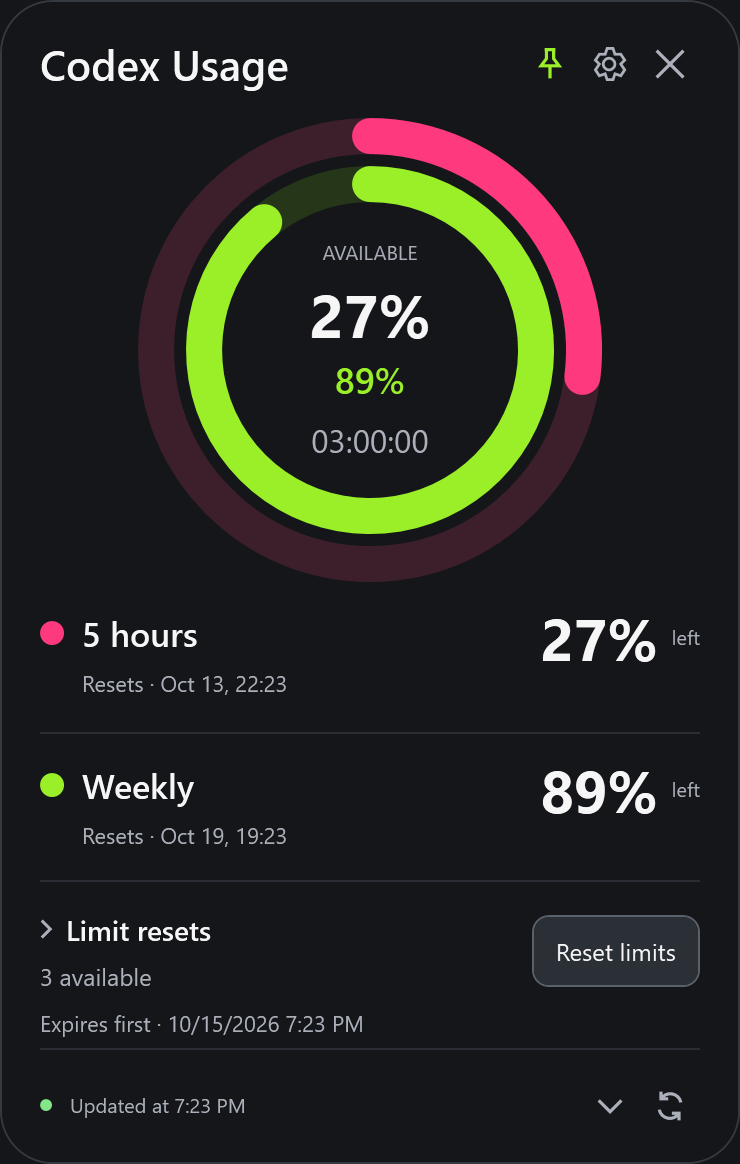
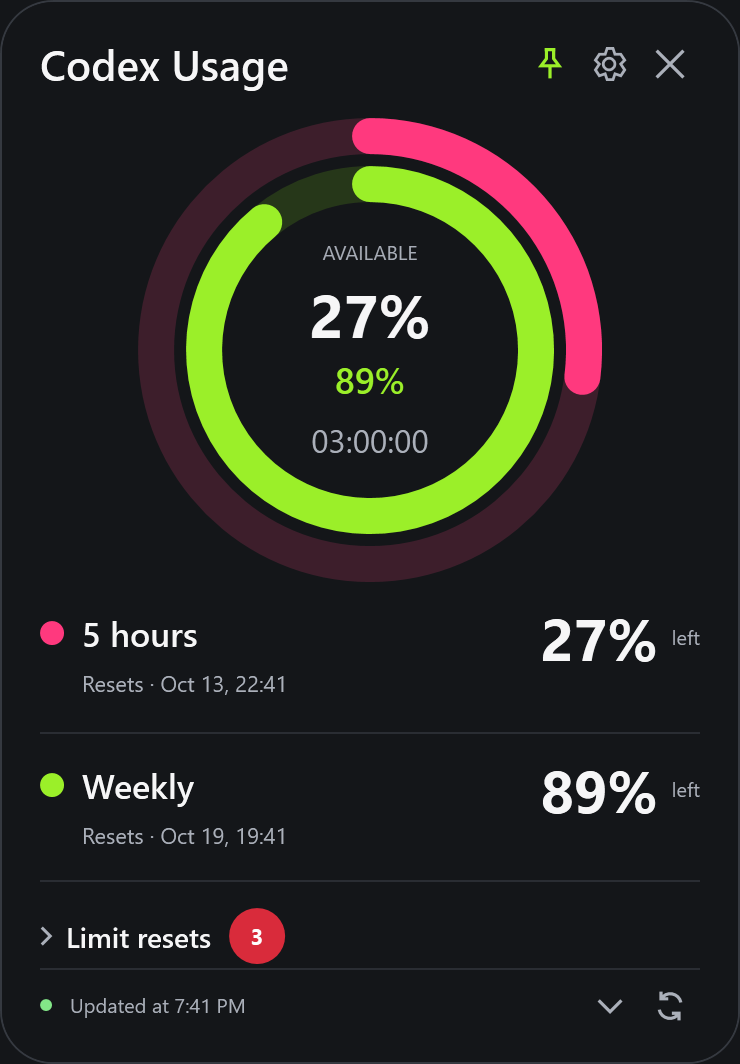
Collapse entire reset section and replay quota ring fills

diff --git a/src/CodexUsageWidget/MainWindow.xaml b/src/CodexUsageWidget/MainWindow.xaml
@@ -4,7 +4,7 @@
  xmlns:controls="clr-namespace:CodexUsageWidget.Controls"
  xmlns:loc="clr-namespace:CodexUsageWidget"
  xmlns:core="clr-namespace:CodexUsageWidget.Core;assembly=CodexUsageWidget.Core"
- Icon="Assets/app.ico" Title="Codex Usage Widget" Width="386" Height="598" WindowStyle="None" WindowStartupLocation="CenterScreen"
+ Icon="Assets/app.ico" Title="Codex Usage Widget" Width="386" Height="548" WindowStyle="None" WindowStartupLocation="CenterScreen"
  Language="{Binding CultureName, Source={x:Static core:Localization.Current}, ConverterCulture=en-US}"
  AllowsTransparency="True" Background="Transparent" ResizeMode="NoResize"
  ShowInTaskbar="False" Topmost="True" FontFamily="Segoe UI Variable, Segoe UI"
@@ -22,7 +22,7 @@
    <ScrollViewer x:Name="ExpandedScroll" VerticalScrollBarVisibility="Auto" HorizontalScrollBarVisibility="Disabled" Visibility="{Binding IsExpanded, Converter={StaticResource BoolVisibility}}">
    <Grid x:Name="ExpandedPanel" Margin="19,14,19,12">
     <Grid.RowDefinitions>
-     <RowDefinition Height="34"/><RowDefinition Height="244"/><RowDefinition Height="74"/><RowDefinition Height="74"/><RowDefinition x:Name="ResetSectionRow" Height="94"/><RowDefinition Height="32"/>
+     <RowDefinition Height="34"/><RowDefinition Height="244"/><RowDefinition Height="74"/><RowDefinition Height="74"/><RowDefinition x:Name="ResetSectionRow" Height="44"/><RowDefinition Height="32"/>
     </Grid.RowDefinitions>
     <Grid>
      <Grid.ColumnDefinitions><ColumnDefinition/><ColumnDefinition Width="90"/></Grid.ColumnDefinitions>
@@ -74,9 +74,8 @@
      <Border Grid.Row="2" Grid.ColumnSpan="3" Background="#2A2D33"/>
     </Grid>
     <Grid Grid.Row="4" Margin="0,11,0,0" ToolTip="{Binding ResetDetails}">
-     <Grid.ColumnDefinitions><ColumnDefinition/><ColumnDefinition Width="Auto"/></Grid.ColumnDefinitions>
-     <Grid.RowDefinitions><RowDefinition Height="25"/><RowDefinition Height="22"/><RowDefinition Height="25"/><RowDefinition x:Name="ResetListRow" Height="0"/><RowDefinition Height="1"/></Grid.RowDefinitions>
-     <ToggleButton x:Name="ResetDisclosure" Background="Transparent" BorderThickness="0" Foreground="{StaticResource Text}" HorizontalContentAlignment="Left" Click="ResetDisclosure_Click" AutomationProperties.Name="{loc:Tr ResetsHeading}">
+     <Grid.RowDefinitions><RowDefinition Height="32"/><RowDefinition Height="Auto"/><RowDefinition Height="1"/></Grid.RowDefinitions>
+     <ToggleButton x:Name="ResetDisclosure" Background="Transparent" BorderThickness="0" Foreground="{StaticResource Text}" HorizontalAlignment="Left" HorizontalContentAlignment="Left" Click="ResetDisclosure_Click" AutomationProperties.Name="{loc:Tr ResetsHeading}">
       <ToggleButton.Template><ControlTemplate TargetType="ToggleButton">
        <Border x:Name="DisclosureSurface" Background="Transparent" CornerRadius="7" Padding="0,0,6,0">
         <StackPanel Orientation="Horizontal" VerticalAlignment="Center">
@@ -89,15 +88,24 @@
         <Trigger Property="IsMouseOver" Value="True"><Setter TargetName="DisclosureSurface" Property="Background" Value="#282B31"/></Trigger>
        </ControlTemplate.Triggers>
       </ControlTemplate></ToggleButton.Template>
-      <TextBlock Text="{loc:Tr ResetsHeading}" FontSize="14" FontWeight="SemiBold"/>
+      <StackPanel Orientation="Horizontal">
+       <TextBlock Text="{loc:Tr ResetsHeading}" FontSize="14" FontWeight="SemiBold" VerticalAlignment="Center"/>
+       <Border Background="#D92B3B" CornerRadius="14" Width="28" Height="28" Margin="9,0,0,0" ToolTip="{Binding ResetAvailability}">
+        <TextBlock x:Name="ResetCountBadge" Text="{Binding ResetCountText}" Foreground="White" FontSize="11" FontWeight="Bold" VerticalAlignment="Center" HorizontalAlignment="Center"/>
+       </Border>
+      </StackPanel>
      </ToggleButton>
-     <Button Grid.Column="1" Grid.RowSpan="2" x:Name="ResetButton" Content="{Binding ResetButtonText}" IsEnabled="{Binding CanReset}" Style="{StaticResource ActionButton}" FontSize="12" Padding="11,0" VerticalAlignment="Center" Click="Reset_Click" AutomationProperties.Name="{loc:Tr ResetAction}"/>
-     <TextBlock Grid.Row="1" Text="{Binding ResetAvailability}" Foreground="{StaticResource Muted}" FontSize="12" VerticalAlignment="Center" Margin="0,0,8,0" TextTrimming="CharacterEllipsis"/>
-     <TextBlock Grid.Row="2" Grid.ColumnSpan="2" Text="{Binding ResetExpiry}" FontSize="11" Foreground="{StaticResource Muted}" TextTrimming="CharacterEllipsis" ToolTip="{Binding ResetDetails}" VerticalAlignment="Center"/>
-     <ScrollViewer x:Name="ResetDetailsPanel" Grid.Row="3" Grid.ColumnSpan="2" Height="82" Visibility="{Binding IsChecked, ElementName=ResetDisclosure, Converter={StaticResource BoolVisibility}}" VerticalScrollBarVisibility="Auto" HorizontalScrollBarVisibility="Disabled" Margin="0,0,0,5">
+     <Grid x:Name="ResetDetailsPanel" Grid.Row="1" Visibility="{Binding IsChecked, ElementName=ResetDisclosure, Converter={StaticResource BoolVisibility}}" Margin="0,4,0,8">
+      <Grid.ColumnDefinitions><ColumnDefinition/><ColumnDefinition Width="Auto"/></Grid.ColumnDefinitions>
+      <Grid.RowDefinitions><RowDefinition Height="38"/><RowDefinition Height="25"/><RowDefinition Height="82"/></Grid.RowDefinitions>
+      <TextBlock Text="{Binding ResetAvailability}" Foreground="{StaticResource Muted}" FontSize="12" VerticalAlignment="Center" Margin="0,0,8,0" TextTrimming="CharacterEllipsis"/>
+      <Button Grid.Column="1" x:Name="ResetButton" Content="{Binding ResetButtonText}" IsEnabled="{Binding CanReset}" Style="{StaticResource ActionButton}" FontSize="12" Padding="11,0" VerticalAlignment="Center" Click="Reset_Click" AutomationProperties.Name="{loc:Tr ResetAction}"/>
+      <TextBlock Grid.Row="1" Grid.ColumnSpan="2" Text="{Binding ResetExpiry}" FontSize="11" Foreground="{StaticResource Muted}" TextTrimming="CharacterEllipsis" ToolTip="{Binding ResetDetails}" VerticalAlignment="Center"/>
+      <ScrollViewer Grid.Row="2" Grid.ColumnSpan="2" Height="82" VerticalScrollBarVisibility="Auto" HorizontalScrollBarVisibility="Disabled">
       <ItemsControl x:Name="ResetEntriesList" ItemsSource="{Binding ResetEntries}"><ItemsControl.ItemTemplate><DataTemplate><TextBlock Text="{Binding}" FontSize="12" Foreground="{StaticResource Muted}" Margin="0,2,0,2" TextWrapping="Wrap"/></DataTemplate></ItemsControl.ItemTemplate></ItemsControl>
-     </ScrollViewer>
-     <Border Grid.Row="4" Grid.ColumnSpan="2" Background="#2A2D33"/>
+      </ScrollViewer>
+     </Grid>
+     <Border Grid.Row="2" Background="#2A2D33"/>
     </Grid>
     <Grid Grid.Row="5" Margin="0,3,0,0">
      <Grid.ColumnDefinitions><ColumnDefinition Width="15"/><ColumnDefinition/><ColumnDefinition Width="30"/><ColumnDefinition Width="30"/></Grid.ColumnDefinitions>

diff --git a/src/CodexUsageWidget/App.xaml b/src/CodexUsageWidget/App.xaml
@@ -106,6 +106,10 @@
     </ControlTemplate.Triggers>
    </ControlTemplate></Setter.Value></Setter>
   </Style>
-  <Style TargetType="Separator"><Setter Property="Template"><Setter.Value><ControlTemplate TargetType="Separator"><Border Height="1" Background="#353940" Margin="12,5"/></ControlTemplate></Setter.Value></Setter></Style>
+  <Style TargetType="Separator">
+   <Setter Property="OverridesDefaultStyle" Value="True"/><Setter Property="Margin" Value="0"/>
+   <Setter Property="HorizontalAlignment" Value="Stretch"/>
+   <Setter Property="Template"><Setter.Value><ControlTemplate TargetType="Separator"><Border Height="1" Background="#353940" Margin="0,5"/></ControlTemplate></Setter.Value></Setter>
+  </Style>
  </Application.Resources>
 </Application>

diff --git a/src/CodexUsageWidget/MainWindow.xaml.cs b/src/CodexUsageWidget/MainWindow.xaml.cs
@@ -140,9 +140,8 @@ public partial class MainWindow : Window
     {
         Width = _viewModel.IsCompact ? 128 : 386;
         var showResets = ResetDisclosure.IsChecked == true;
-        ResetSectionRow.Height = new GridLength(showResets ? 181 : 94);
-        ResetListRow.Height = new GridLength(showResets ? 87 : 0);
-        Height = _viewModel.IsCompact ? 128 : showResets ? 685 : 598;
+        ResetSectionRow.Height = new GridLength(showResets ? 202 : 44);
+        Height = _viewModel.IsCompact ? 128 : showResets ? 706 : 548;
         Surface.CornerRadius = new CornerRadius(_viewModel.IsCompact ? 22 : 26);
     }
 
@@ -156,6 +155,7 @@ public partial class MainWindow : Window
         {
             WindowPlacement.KeepInside(this, screen);
             SaveSettings();
+            ReplayVisibleRings();
         });
     }
 
@@ -307,16 +307,27 @@ public partial class MainWindow : Window
         UpdateTray();
     }
 
-    private void ShowWidget() { Show(); EnsureVisible(); UpdateClockState(); Activate(); }
+    private void ShowWidget()
+    {
+        if (WindowState == WindowState.Minimized) WindowState = WindowState.Normal;
+        Show(); EnsureVisible(); UpdateClockState(); Activate();
+    }
 
     private void UpdateClockState()
     {
         if (IsVisible && WindowState != WindowState.Minimized)
         {
+            var resume = !_clock.IsEnabled;
             _viewModel.Tick();
             _clock.Start();
+            if (resume) Dispatcher.BeginInvoke(DispatcherPriority.Loaded, ReplayVisibleRings);
         }
         else _clock.Stop();
+    }
+
+    private void ReplayVisibleRings()
+    {
+        foreach (var ring in FindVisualChildren<RingGauge>(Surface).Where(ring => ring.IsVisible)) ring.ReplayFill();
     }
 
     private bool IsInsideRingArea(DependencyObject? source)
@@ -341,7 +352,7 @@ public partial class MainWindow : Window
         Add("MenuShow", ShowWidget);
         Add("MenuMode", () => Compact_Click(this, new RoutedEventArgs()));
         Add("Settings", () => { ShowWidget(); Settings_Click(this, new RoutedEventArgs()); });
-        menu.Items.Add(new Separator());
+        menu.Items.Add(new Separator { Style = (Style)FindResource(typeof(Separator)) });
         Add("MenuExit", ExitAsync);
         return menu;
     }
@@ -422,7 +433,8 @@ public partial class MainWindow : Window
         if (!_viewModel.CanReset || !_viewModel.ResetAvailability.Contains("3", StringComparison.Ordinal))
             throw new InvalidOperationException("Available reset state verification failed.");
         Capture(Surface, Path.Combine(directory, "main.png"));
-        if (ResetDetailsPanel.IsVisible) throw new InvalidOperationException("Reset details must start collapsed.");
+        if (ResetDetailsPanel.IsVisible || ResetButton.IsVisible || ResetCountBadge.Text != "3")
+            throw new InvalidOperationException("Collapsed resets must show only their heading and live count badge.");
         var collapsedHeight = Height;
         ResetDisclosure.IsChecked = true;
         ResetDisclosure_Click(this, new RoutedEventArgs());
@@ -437,9 +449,12 @@ public partial class MainWindow : Window
             throw new InvalidOperationException("Closing reset details must recover the space.");
         if (_viewModel.ResetEntries.Count != 3 || ResetEntriesList.Items.Count != 3)
             throw new InvalidOperationException("Every returned reset must be listed.");
-        _viewModel.IsCompact = true;
-        ApplyLayout();
-        await Task.Delay(150);
+        Compact_Click(this, new RoutedEventArgs());
+        await Dispatcher.InvokeAsync(() => { }, DispatcherPriority.ContextIdle);
+        await Task.Delay(100);
+        VerifyRefillInProgress();
+        Capture(Surface, Path.Combine(directory, "compact-refill.png"));
+        await Task.Delay(550);
         if (FindVisualChildren<TextBlock>(CompactPanel).Any(text => text.IsVisible && !ReferenceEquals(text, CompactCountdown)) ||
             FindVisualChildren<RingGauge>(CompactPanel).Count() != 2)
             throw new InvalidOperationException("Compact mode must show only two rings and the countdown.");
@@ -472,6 +487,7 @@ public partial class MainWindow : Window
         _viewModel.SetSnapshot(_viewModel.Snapshot! with { ObservedAt = DateTimeOffset.UtcNow, ResetCredits = new ResetCredits(0, []), ResetCreditsIncluded = true });
         if (_viewModel.CanReset) throw new InvalidOperationException("Zero available resets should disable the action.");
         await Task.Delay(100);
+        if (ResetCountBadge.Text != "0") throw new InvalidOperationException("The badge must display the authoritative zero count.");
         Capture(Surface, Path.Combine(directory, "reset-empty.png"));
         SetDemoSnapshot();
         var settings = new SettingsWindow(new WidgetSettings { Language = Localization.Current.Language }) { Owner = this };
@@ -522,6 +538,14 @@ public partial class MainWindow : Window
         if (_clock.IsEnabled) throw new InvalidOperationException("The countdown timer must stop while hidden.");
         ShowWidget();
         if (!_clock.IsEnabled) throw new InvalidOperationException("The countdown timer must resume when shown.");
+        await Dispatcher.InvokeAsync(() => { }, DispatcherPriority.ContextIdle);
+        await Task.Delay(100);
+        VerifyRefillInProgress();
+        Capture(Surface, Path.Combine(directory, "tray-restore-refill.png"));
+        await Task.Delay(550);
+        foreach (var ring in FindVisualChildren<RingGauge>(Surface).Where(ring => ring.IsVisible))
+            if (Math.Abs(ring.AnimatedValue - ring.Value) > 0.01)
+                throw new InvalidOperationException("Refill must end at the authoritative percentage.");
         foreach (var screen in Forms.Screen.AllScreens)
         {
             _viewModel.IsCompact = true;
@@ -541,6 +565,15 @@ public partial class MainWindow : Window
         if (Math.Abs(dialog.Left + dialog.ActualWidth / 2 - Left - ActualWidth / 2) > 1 ||
             Math.Abs(dialog.Top + dialog.ActualHeight / 2 - Top - ActualHeight / 2) > 1)
             throw new InvalidOperationException("Dialog is not centered on its owner.");
+    }
+
+    private void VerifyRefillInProgress()
+    {
+        if (!SystemParameters.ClientAreaAnimation) return;
+        foreach (var ring in FindVisualChildren<RingGauge>(Surface).Where(ring => ring.IsVisible && ring.Value > 0))
+            if (ring.AnimatedValue < 0 || ring.AnimatedValue >= ring.Value)
+                throw new InvalidOperationException("Visible rings must replay their fill from zero.");
+        VerifyRingAccessibility();
     }
 
     private void VerifyRingAccessibility()

diff --git a/src/CodexUsageWidget/Controls/RingGauge.cs b/src/CodexUsageWidget/Controls/RingGauge.cs
@@ -37,16 +37,22 @@ public sealed class RingGauge : FrameworkElement
         var target = Math.Clamp((double)e.NewValue, 0, 100);
         if (UIElementAutomationPeer.FromElement(ring) is { } peer)
             peer.RaisePropertyChangedEvent(RangeValuePatternIdentifiers.ValueProperty, (double)e.OldValue, target);
-        if (!SystemParameters.ClientAreaAnimation || !ring.IsLoaded)
+        ring.AnimateTo(ring.AnimatedValue, target);
+    }
+
+    public void ReplayFill() => AnimateTo(0, Math.Clamp(Value, 0, 100));
+
+    private void AnimateTo(double from, double target)
+    {
+        if (!SystemParameters.ClientAreaAnimation || !IsLoaded)
         {
-            ring.BeginAnimation(AnimatedValueProperty, null);
-            ring.AnimatedValue = target;
+            BeginAnimation(AnimatedValueProperty, null);
+            AnimatedValue = target;
             return;
         }
-        var from = ring.AnimatedValue;
-        ring.BeginAnimation(AnimatedValueProperty, null);
-        ring.AnimatedValue = target;
-        ring.BeginAnimation(AnimatedValueProperty, new DoubleAnimation(from, target, TimeSpan.FromMilliseconds(550))
+        BeginAnimation(AnimatedValueProperty, null);
+        AnimatedValue = target;
+        BeginAnimation(AnimatedValueProperty, new DoubleAnimation(from, target, TimeSpan.FromMilliseconds(550))
         {
             EasingFunction = new ExponentialEase { Exponent = 5, EasingMode = EasingMode.EaseOut },
             FillBehavior = FillBehavior.Stop

diff --git a/src/CodexUsageWidget/WidgetViewModel.cs b/src/CodexUsageWidget/WidgetViewModel.cs
@@ -59,6 +59,7 @@ public sealed class WidgetViewModel : INotifyPropertyChanged, IDisposable
     public string ResetDetails => _resetRecoveryBlocked ? _text["PendingStoreError"] : _pendingReset ? _text["ResetPending"] : HasError ? _text["RefreshToReset"]
         : _snapshot?.ResetCredits?.ExpiryDetailsComplete == false ? _text["ResetsDetailsIncomplete"] : $"{ResetAvailability}\n{ResetExpiry}";
     public string ResetButtonText => _text[_pendingReset ? "RetryReset" : "ResetAction"];
+    public string ResetCountText => _snapshot?.ResetCredits?.AvailableCount.ToString(_text.Culture) ?? "?";
     public IReadOnlyList<string> ResetEntries
     {
         get

diff --git a/DESIGN.md b/DESIGN.md
@@ -13,6 +13,7 @@ colors:
   separator: "#2A2D33"
   warning: "#F1B859"
   current: "#83E788"
+  reset-count: "#D92B3B"
   control-hover: "#282B31"
   control-pressed: "#353942"
   control-hover-text: "#FFFFFF"
@@ -135,7 +136,7 @@ The remaining-value role is the frontmatter's percentage token. The full ring ce
 
 ## Layout
 
-Main window: 386 × 598 (685 with reset details open) device-independent pixels, including transparent margins. Header, 232-pixel ring assembly, two quota rows, earned-reset section, then the status/control footer. The expanded grid allocates 34, 244, 74, 74, 94 (181 expanded) and 32 pixels to those rows; its inset is 19 horizontally, 14 above and 12 below within the eight-pixel outer margin. Full rows include remaining percentage and reset date. Compact window: 128 × 128 pixels with concentric 92- and 70-pixel rings and the live five-hour countdown; no percentages, status text or inline buttons. Hover reveals quota values, local reset dates, earned resets and status. Double-click anywhere on the compact surface (or the expanded ring area), press Ctrl+M or use the tray mode action to expand; drag the surface to reposition.
+Main window: 386 × 548 (706 with reset details open) device-independent pixels, including transparent margins. Header, 232-pixel ring assembly, two quota rows, earned-reset section, then the status/control footer. The expanded grid allocates 34, 244, 74, 74, 44 (202 expanded) and 32 pixels to those rows; its inset is 19 horizontally, 14 above and 12 below within the eight-pixel outer margin. Full rows include remaining percentage and reset date. Compact window: 128 × 128 pixels with concentric 92- and 70-pixel rings and the live five-hour countdown; no percentages, status text or inline buttons. Hover reveals quota values, local reset dates, earned resets and status. Double-click anywhere on the compact surface (or the expanded ring area), press Ctrl+M or use the tray mode action to expand; drag the surface to reposition.
 
 The full and compact layouts are separate compositions, not a scaled screenshot. WPF vector rendering handles display scaling. Settings use the shared frameless dark rounded dialog shell (510 × 570), with an eight-pixel transparent outer margin, one-pixel outline and 23-pixel content inset. The language selector is 32 pixels high; the refresh selector remains 30 pixels high. Earned-reset confirmation is a 470-pixel-wide owner-centered dialog that sizes its height to wrapped content, with the same shell and inset. Both dialogs declare WindowStartupLocation="CenterOwner" in XAML; their headers are draggable and their close controls cancel. The duplicate-launch notice shares this shell and centers on screen when no owner exists. Tab traversal is disabled by user request; explicit shortcuts and mouse controls remain and give icon controls accessible names. These are explicit desktop modes; there are no web breakpoints.
 
@@ -209,4 +210,6 @@ An uncertain outcome changes the action to Retry reset and explains that the ear
 
 The reset section lists every returned available credit by local expiry date/time in a scrollable list; missing details are stated explicitly. The main content also scrolls on small monitors. Native physical bounds clamp the main widget after expansion/drag. The countdown stops while hidden/minimized and resumes immediately on showing; visible compact mode keeps counting.
 
-The reset list is collapsed by default behind a shared dark disclosure toggle. Availability, nearest expiry and reset action stay visible. The list has an 82 DIP scroll viewport with 5 DIP bottom spacing; disclosure changes the full-window height from 598 to 685 DIP and clamps it to the current monitor. Header hover is tonal gray with a rotated stroked chevron.
+The entire reset body is collapsed by default: action, availability and expiry details are hidden together. Only the heading and a red 28 DIP circular badge with white 11 DIP bold count remain. Unknown count is shown as a question mark, not zero. The list uses an 82 DIP scroll viewport. Disclosure changes the full-window height from 548 to 706 DIP and clamps it to the current monitor. Header hover is tonal gray with a rotated stroked chevron.
+
+View switches and restoration from the tray/minimized state replay visible rings from zero, using the existing 550 ms exponential ease-out. Actual numeric values and UI Automation values remain unchanged during replay. Windows disabled-animation preferences show the final arcs immediately. The tray separator explicitly overrides the Windows theme, spanning the menu content width with zero extra horizontal inset and five DIP vertical margins.

diff --git a/README.md b/README.md
@@ -16,7 +16,7 @@ A small Windows desktop companion that keeps your Codex subscription limits visi
 - Shared rounded dark Settings and reset confirmation windows, using native XAML CenterOwner placement.
 - A two-ring application icon, supplied in multiple resolutions for Windows and the tray.
 - Monitor-aware window bounds, larger compact rings and a countdown that pauses while hidden in the tray.
-- A collapsible list of all returned earned-reset expiry dates and times; click the Limit resets heading to reveal it.
+- A fully collapsible earned-reset section with a red available-count badge; click the heading to reveal its action, availability and expiry dates.
 - Remembers window position, layout, CLI path and refresh interval.
 - Optional start with Windows, enabled only when you check it in Settings.
 - Retains the last successful snapshot during an outage and marks it as stale.
@@ -115,3 +115,5 @@ See [release workflow](docs/releasing.md), [architecture](docs/architecture.md),
 ## License
 
 [MIT](LICENSE).
+
+View switches and tray restoration refill the rings from zero while numeric data stays accurate. Windows animation preferences are respected.

diff --git a/CHANGELOG.md b/CHANGELOG.md
@@ -1,5 +1,12 @@
 # Changelog
 
+## 0.5.2 — 2026-10-13 (local build)
+
+- Collapse the entire earned-reset body, including action, availability and expiry dates. The heading stays visible with a red circular, white-number available-count badge.
+- Explicit dark tray separator styling removes the Windows theme's asymmetric inset.
+- Switching compact/full or restoring from tray/minimized replays visible quota arcs from zero to their current percentage with the existing 550 ms ease-out. Displayed data and accessibility values remain authoritative; Windows reduced-animation settings are respected.
+- English native preview verifies body visibility, badge counts, intermediate refill frames and final quota values.
+
 ## 0.5.1 — 2026-10-13 (local build)
 
 - Earned-reset dates are collapsed by default behind a styled disclosure heading. Availability, nearest expiry and the reset action remain visible.

diff --git a/docs/releases/v0.5.2.md b/docs/releases/v0.5.2.md
@@ -1,0 +1,7 @@
+# Codex Usage Widget v0.5.2 (local build)
+
+- The reset heading is accompanied by a red circular count badge with white text. Its entire body collapses, including the Reset button, availability and all expiry dates.
+- The tray separator uses the app's explicit dark style and equal horizontal insets.
+- Compact/full switches and tray/minimized restoration refill visible rings from zero to the current quota. Numeric labels and accessible values remain accurate throughout. The effect respects Windows animation preferences and uses the existing 550 ms ease-out.
+
+Portable and Lite are prepared locally. Publication requires an explicit user command.
